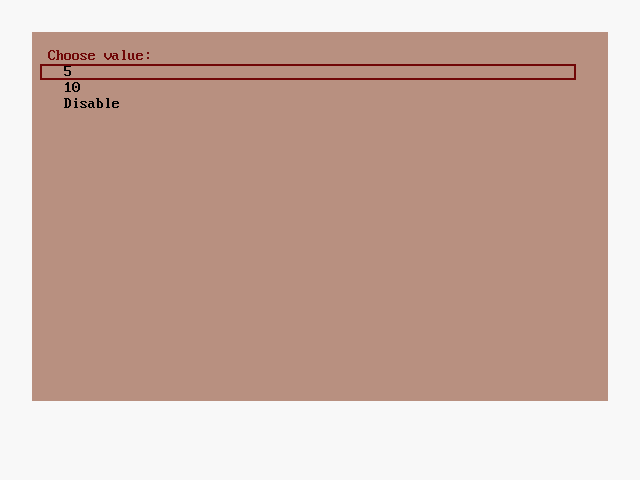
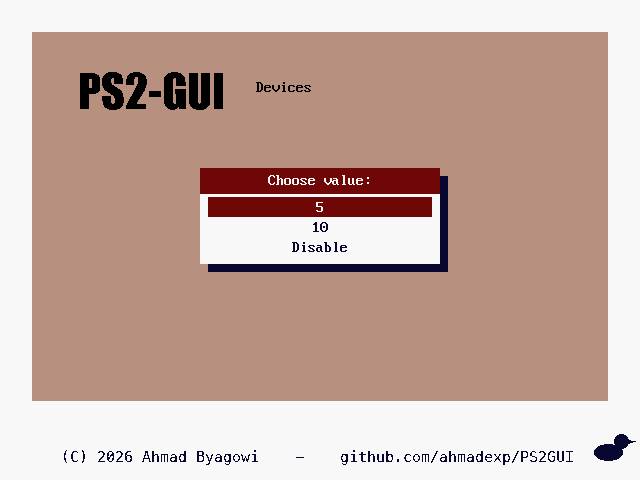
PS2GUI: stylish value-picker dialog (white window, red title bar, shadow)

diff --git a/Software/PS2GUI/README.md b/Software/PS2GUI/README.md
@@ -28,7 +28,8 @@ The menus are **icon grids**, just like the machine's Easy-Setup:
   a stopwatch for the *timer test*, magnifier-badged icons for the *diagnostics*, and so on.
 - **Selection** is shown Easy-Setup-style: the current tile is **inverted** (dark-red tile, light
   icon). Move with the **arrow keys** in two dimensions.
-- **Value pickers** (High / Medium / Low, COM1 / COM2, …) are a short chooser list.
+- **Value pickers** (High / Medium / Low, COM1 / COM2, …) open a centred **Easy-Setup-style dialog**
+  — a white window with a drop shadow, a red title bar, and the current value on a red selection bar.
 
 The layout is measured straight off a real Easy-Setup capture: a **white screen** with the **mauve
 panel** inset at (32,32)–(607,400), the copyright on the white margin below it, a **5×2 grid** of white
@@ -51,7 +52,7 @@ palette and title lettering.)*
 | Main menu — 10 category tiles | ![main](screenshot.png) |
 | Power & Battery items | ![sub](screenshot-sub.png) |
 | Devices items | ![devices](screenshot-devices.png) |
-| A value picker | ![picker](screenshot-picker.png) |
+| A value-picker dialog | ![picker](screenshot-picker.png) |
 
 ### The menu structure is identical to PS2TUI
 
